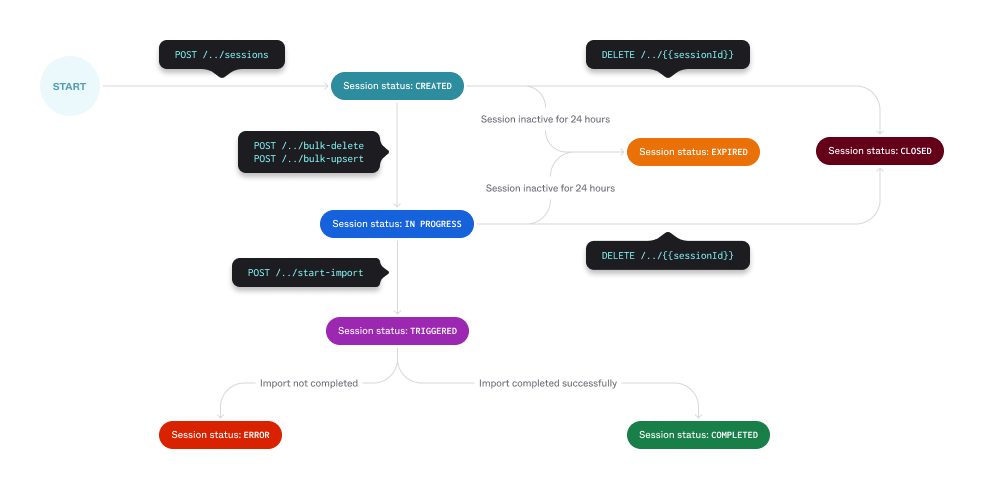
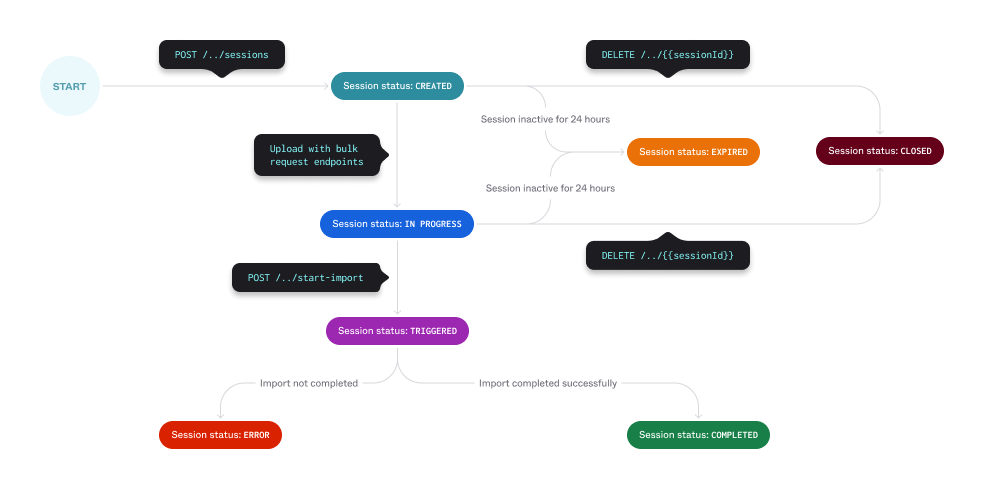
Updated with diagrams from Joyce and final feedback from Murty

Changed region(s): [[0.2439, 0.2454, 0.3963, 0.3681], [0.2134, 0.5215, 0.3963, 0.6135]]

diff --git a/packages/@okta/vuepress-site/docs/guides/anything-as-a-source/index.md b/packages/@okta/vuepress-site/docs/guides/anything-as-a-source/index.md
@@ -102,7 +102,7 @@ Create another identity source session object when you exhaust the maximum numbe
 
 The bulk-load request payload contains an array of external identity source objects. The items in the objects varies depending on the request you're taking.
 
-> **Note:** You can only load user profile data to an identity source session object with the `"entityType": "USERS"` property. Group data load isn't currently supported.
+> **Note:** You can only load user profile data to an identity source session object with the `"entityType": "USERS"` property.
 
 #### Bulk upsert user profiles
 
